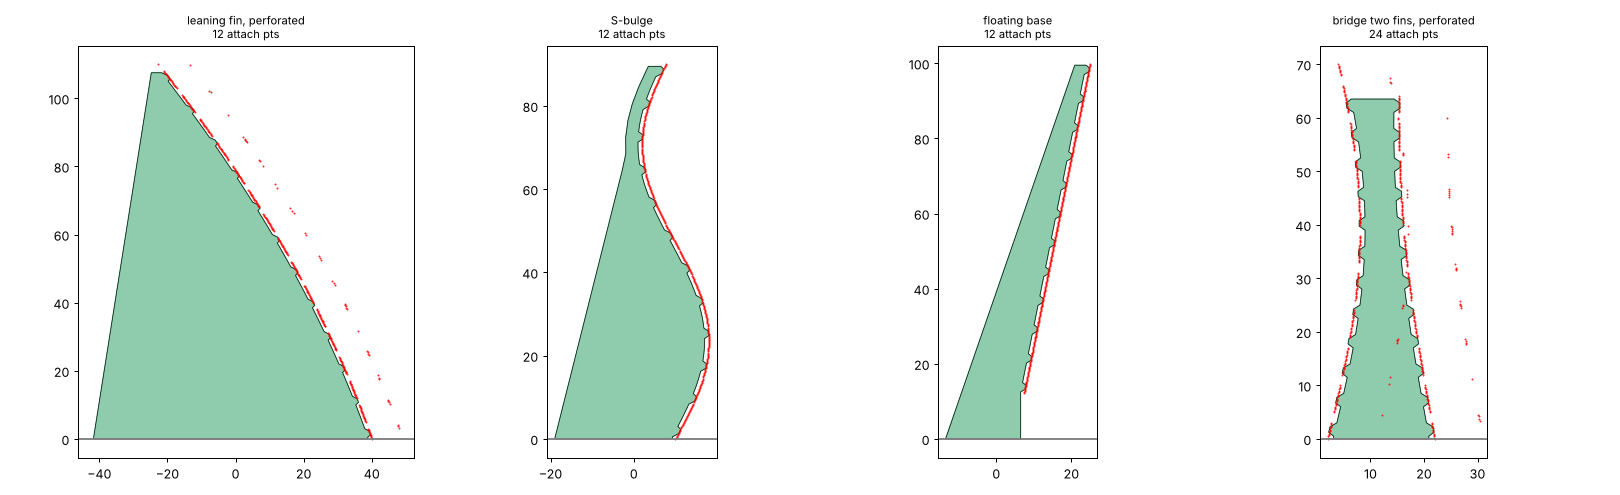
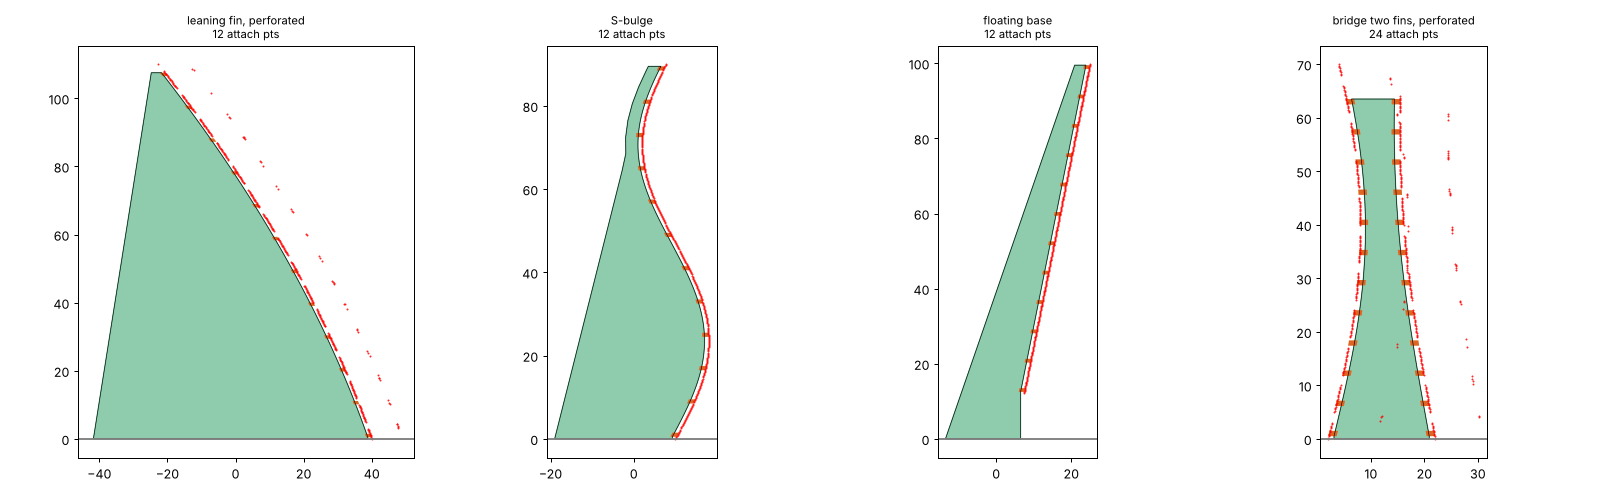
Attach points become separate necks, sized independently of the wall
Teeth are no longer cut into the wall outline (where they took the wall's thickness).
The wall keeps a plain edge at the gap; each attach point is its own small block,
neckWidth across the wall by neckHeight tall (default 1 x 1 mm), from 0.5 mm inside the
wall to overlap into the part, its tip placed by rays across its own width. Replaces the
tooth contact/base width inputs.

Claude-Session: https://claude.ai/code/session_01AZ8biUL9VARQwDepMwcHP7

diff --git a/tools/profile_check.py b/tools/profile_check.py
@@ -1,12 +1,13 @@
 # profile_check.py: Python port of the pure 2D profile math in src/SupportWall.fs
-# (filterTrace, toothCenters, toothedEdge, singleProfile, bridgeProfile). Keep the two in sync.
+# (filterTrace, toothCenters, contactEdge, singleProfile, bridgeProfile). Keep the two in sync.
 #
 # Run:  python tools/profile_check.py   (needs shapely + matplotlib)
 # Checks every profile is a valid, non-self-intersecting polygon and writes docs/profile_preview.png.
 import math, random
 
-D = dict(gap=1.0, overlap=0.1, toothBase=2.5, toothTip=1.0, attachMode="COUNT", toothCount=12,
+D = dict(gap=1.0, overlap=0.1, neckHeight=1.0, neckWidth=1.0, attachMode="COUNT", toothCount=12,
          toothSpacing=8.0, footReach=20.0, topWidth=3.0, thickness=1.2)
+NECK_EMBED = 0.5
 TOL = 1e-6
 
 
@@ -56,14 +57,14 @@ def trace(edge, h_limit, d, step=1.0):
     def edge_at(hq):
         s, guess = edge(hq), interp(H, S, hq)
         return guess if (s is None or abs(s - guess) > jump) else s
-    return dict(h=H, s=S, edgeAt=edge_at)
+    return dict(h=H, s=S, tipAt=edge_at)
 
 
 def tooth_centers(lo, hi, d):
-    bw = d["toothBase"]
+    nh = d["neckHeight"]
     if hi < lo:
         return []
-    mp = bw * 1.1
+    mp = max(2 * nh, nh + 0.5)
     if d["attachMode"] == "COUNT":
         n = min(d["toothCount"], math.floor((hi - lo) / mp) + 1)
         p = (hi - lo) / (n - 1) if n > 1 else 0
@@ -74,34 +75,29 @@ def tooth_centers(lo, hi, d):
     return [f + p * k for k in range(n)]
 
 
-def toothed_edge(tr, h_top, sign, d):
-    g, ov, bw = d["gap"], d["overlap"], d["toothBase"]
-    tw = min(d["toothTip"], bw)
-    teeth = tooth_centers(tr["h"][0] + bw / 2, h_top - bw / 2, d)
-    e = tr["edgeAt"]
+def contact_edge(tr, h_top, sign, d):
+    g, ov, nh = d["gap"], d["overlap"], d["neckHeight"]
     pts = [(tr["s"][0] - g * sign, 0.0)]
-    k = 0
     for h, s in zip(tr["h"], tr["s"]):
         if h > h_top:
             break
-        while k < len(teeth) and teeth[k] - bw / 2 <= h:
-            hk = teeth[k]
-            pts += [(e(hk - bw / 2) - g * sign, hk - bw / 2), (e(hk - tw / 2) + ov * sign, hk - tw / 2),
-                    (e(hk + tw / 2) + ov * sign, hk + tw / 2), (e(hk + bw / 2) - g * sign, hk + bw / 2)]
-            k += 1
-        if k > 0 and h <= teeth[k - 1] + bw / 2:
-            continue
         pts.append((s - g * sign, h))
     top_s = interp(tr["h"], tr["s"], h_top) - g * sign
     if abs(pts[-1][1] - h_top) > TOL:
         pts.append((top_s, h_top))
-    return dict(points=pts, teeth=len(teeth), bottomS=tr["s"][0] - g * sign, topS=top_s)
+    necks = []
+    for hk in tooth_centers(tr["h"][0] + nh / 2, h_top - nh / 2, d):
+        lo, hi = hk - nh / 2, hk + nh / 2
+        necks.append([(interp(tr["h"], tr["s"], lo) - (g + NECK_EMBED) * sign, lo),
+                      (tr["tipAt"](lo) + ov * sign, lo), (tr["tipAt"](hi) + ov * sign, hi),
+                      (interp(tr["h"], tr["s"], hi) - (g + NECK_EMBED) * sign, hi)])
+    return dict(points=pts, necks=necks, bottomS=tr["s"][0] - g * sign, topS=top_s)
 
 
 def single_profile(tr, d):
     g, tW = d["gap"], d["topWidth"]
     h_top = tr["h"][-1]
-    inner = toothed_edge(tr, h_top, 1, d)
+    inner = contact_edge(tr, h_top, 1, d)
     min_inner = min(s - g for s in tr["s"])
     foot = min(min_inner - d["footReach"], min_inner - tW)
     outer_top = inner["topS"] - tW
@@ -112,19 +108,20 @@ def single_profile(tr, d):
         h = tr["h"][j]
         pts.append((min(foot + (outer_top - foot) * (h / h_top), tr["s"][j] - g - tW), h))
     pts.append((foot, 0.0))
-    return dict(points=pts, teeth=inner["teeth"], height=h_top)
+    return dict(points=pts, necks=inner["necks"], teeth=len(inner["necks"]), height=h_top)
 
 
 def bridge_profile(trA, trB, d):
     h_top = min(trA["h"][-1], trB["h"][-1])
-    left = toothed_edge(trA, h_top, -1, d)
-    right = toothed_edge(trB, h_top, 1, d)
+    left = contact_edge(trA, h_top, -1, d)
+    right = contact_edge(trB, h_top, 1, d)
     for h, s in zip(trA["h"], trA["s"]):
         if h > h_top:
             break
         if interp(trB["h"], trB["s"], h) - s - 2 * d["gap"] < d["thickness"] / 2:
             return dict(error="too close")
-    return dict(points=left["points"] + right["points"][::-1], teeth=left["teeth"] + right["teeth"], height=h_top)
+    necks = left["necks"] + right["necks"]
+    return dict(points=left["points"] + right["points"][::-1], necks=necks, teeth=len(necks), height=h_top)
 
 
 # ---------------------------------------------------------------- test edges
@@ -171,11 +168,17 @@ def run():
             ok = False
             continue
         P = Polygon(pr["points"])
-        print(f"{name:30s} teeth={pr['teeth']:3d} height={pr['height']:6.1f} pts={len(pr['points']):4d} valid={P.is_valid}")
-        ok &= P.is_valid
+        necks = [Polygon(q) for q in pr["necks"]]
+        fused = all(q.is_valid and q.intersection(P).area > 0 for q in necks)
+        print(f"{name:30s} attach={pr['teeth']:3d} height={pr['height']:6.1f} wall valid={P.is_valid} "
+              f"attach points valid+fused={fused}")
+        ok &= P.is_valid and fused
         xs, ys = zip(*(pr["points"] + [pr["points"][0]]))
         a.fill(xs, ys, color="#4a7", alpha=.6)
         a.plot(xs, ys, "k", lw=.5)
+        for q in pr["necks"]:
+            qx, qy = zip(*(q + [q[0]]))
+            a.fill(qx, qy, color="#d62", lw=0)
         for e in (eA, eB):
             if e:
                 hh = [x / 4 for x in range(0, 600)]

diff --git a/README.md b/README.md
@@ -20,9 +20,9 @@ and a part whose base sits above the bed.*
 | Max support height | Wall stops here or at the top of the part, whichever is lower |
 | Wall thickness | Default 1.2 mm (3 lines at 0.4 mm) |
 | Attach points by | **Count** (evenly spread) or **Spacing** (fixed pitch, centred) |
-| Gap to part | Clearance between the wall and the part between teeth, held across the whole wall thickness |
-| Tooth contact width / base width | Tip land touching the part (default 1 mm), and the tooth root width (2.5 mm) |
-| Contact overlap | How far tooth tips bury into the part so they fuse in the slicer (default 0.1 mm). Tips touch only at the nearest point across the wall, so each contact is about 1 mm × a fraction of the wall |
+| Gap to part (attach point length) | Clearance between the wall and the part. The attach points bridge it. Held across the whole wall thickness |
+| Attach point width / height | Size of each contact neck: across the wall × up (default **1 × 1 mm**). Separate from the wall thickness, so a thick wall for a tall support still breaks off cleanly |
+| Contact overlap | How far each attach point buries into the part so it fuses in the slicer (default 0.1 mm). Its tip reaches the nearest point across its width |
 | Foot reach on bed | How far the wall's foot extends away from the part |
 | Top width | Minimum wall width at the top, and the minimum width anywhere |
 | Add bed pad | Thin pad under the wall bottom for adhesion (width, thickness) |
@@ -32,7 +32,8 @@ and a part whose base sits above the bed.*
 
 1. Rays are cast across each support plane at ~1 mm height steps toward the part. The first hit at
    each height traces the part's edge in that plane, so any curve works.
-2. The edge is offset by the gap, and trapezoid teeth reach back across the gap to the part.
+2. The wall's edge is offset by the gap. Separate small attach points (necks, 1 × 1 mm by default)
+   bridge the gap from inside the wall to just into the part.
 3. The outer edge runs straight from the top to the foot, but never comes closer than *top width*
    to the inner edge.
 4. The 2D profile is sketched on the plane, extruded to wall thickness, and the bed pad is unioned on.
@@ -64,8 +65,8 @@ reach* and *Top width* only apply to the one-part mode.
 ## Status
 
 - **v1 runs in Onshape** (2026-10-27), including directly on an imported STL mesh.
-- **v2 (current file) not yet pasted:** trace through holes, gap across the full wall thickness,
-  two-part bridge, 1 mm contact defaults. Its profile math is checked in `tools/profile_check.py`.
+- **v3 (current file) not yet pasted:** trace through holes, gap across the full wall thickness,
+  two-part bridge, separate 1 × 1 mm attach-point necks. Its profile math is checked in `tools/profile_check.py`.
 
 ## Roadmap
 - **Drag handle for attach-point count/spacing.** Onshape's feature dialog has no slider widget
